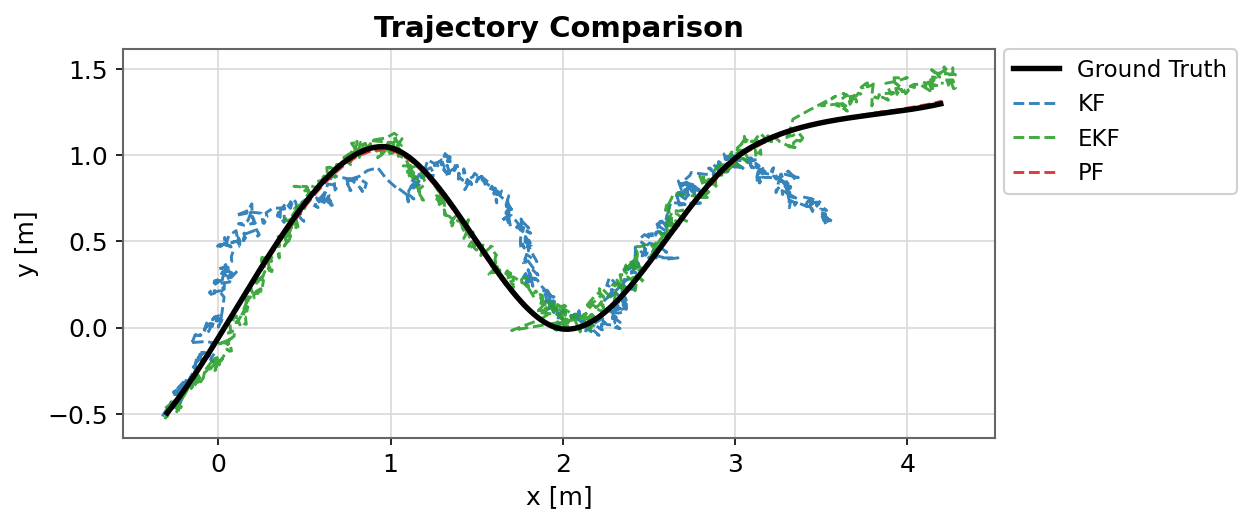
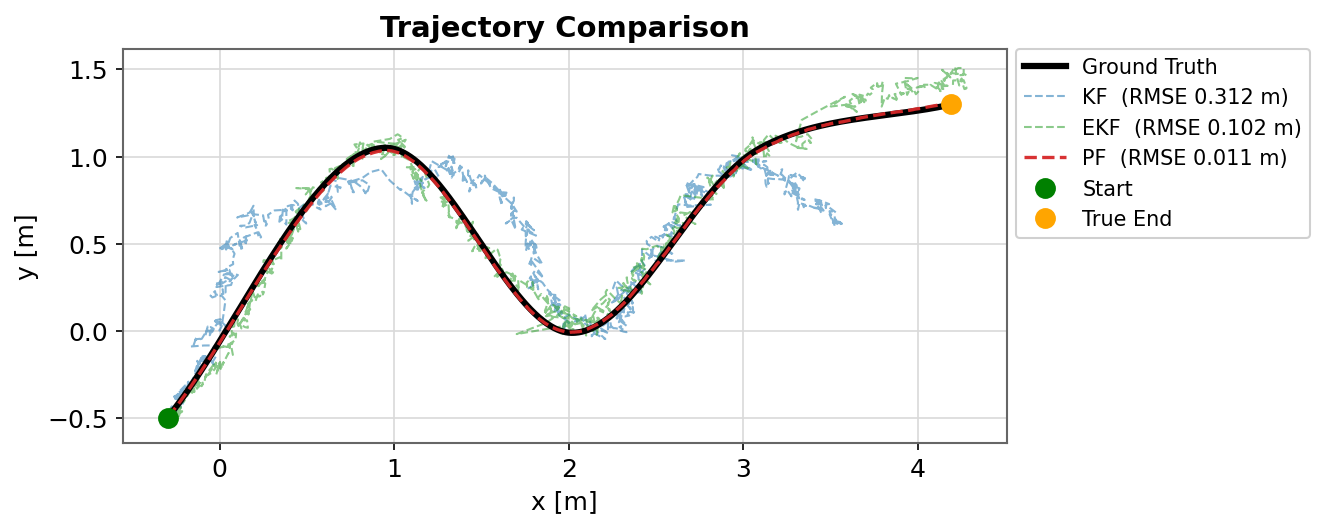
Update trajectories.png: make PF visible, lighten KF/EKF, add markers + RMSE
PF tracked so tightly it was hidden under the ground truth; now drawn on top
(visible red), KF/EKF lighter underneath, with Start/True End markers and RMSE
in the legend. Regenerated from 11_runtime; paper figure + PDF refreshed.

diff --git a/prol_filters/scripts/plot_comparison_gain.py b/prol_filters/scripts/plot_comparison_gain.py
@@ -85,16 +85,24 @@ def plot_filter_comparison(filt, out):
 
 
 def plot_trajectories(filt, out):
-    fig, ax = plt.subplots(figsize=(8.5, 7))
+    fig, ax = plt.subplots(figsize=(9, 6))
     gt = next(d for d in filt.values() if d is not None)
-    ax.plot(gt["gt_x"], gt["gt_y"], "-", color=C["GT"], lw=2.6,
+    ax.plot(gt["gt_x"], gt["gt_y"], "-", color=C["GT"], lw=3.0,
             label="Ground Truth", zorder=5)
+    # PF tracks tightest, so draw it on top (otherwise it hides under the GT);
+    # KF/EKF lighter/thinner underneath so the dense jitter doesn't dominate.
+    zmap = {"KF": 3, "EKF": 4, "PF": 7}
     for n, d in filt.items():
         if d is None:
             continue
-        ax.plot(d["x"], d["y"], "--", color=C[n], lw=1.4, alpha=0.9, label=n)
+        pf = (n == "PF"); e = perr(d)
+        ax.plot(d["x"], d["y"], "--", color=C[n], lw=1.6 if pf else 1.0,
+                alpha=0.95 if pf else 0.55, zorder=zmap.get(n, 3),
+                label=f"{n}  (RMSE {np.sqrt(np.mean(e ** 2)):.3f} m)")
+    ax.plot(gt["gt_x"][0], gt["gt_y"][0], "o", color="green", ms=9, label="Start", zorder=9)
+    ax.plot(gt["gt_x"][-1], gt["gt_y"][-1], "o", color="orange", ms=9, label="True End", zorder=9)
     ax.set_aspect("equal"); ax.set_xlabel("x [m]"); ax.set_ylabel("y [m]")
-    ax.set_title("Trajectory Comparison"); legend_out(ax, fontsize=11)
+    ax.set_title("Trajectory Comparison"); legend_out(ax, fontsize=10)
     fig.tight_layout(); fig.savefig(out); plt.close(fig); print("saved", out)
 
 